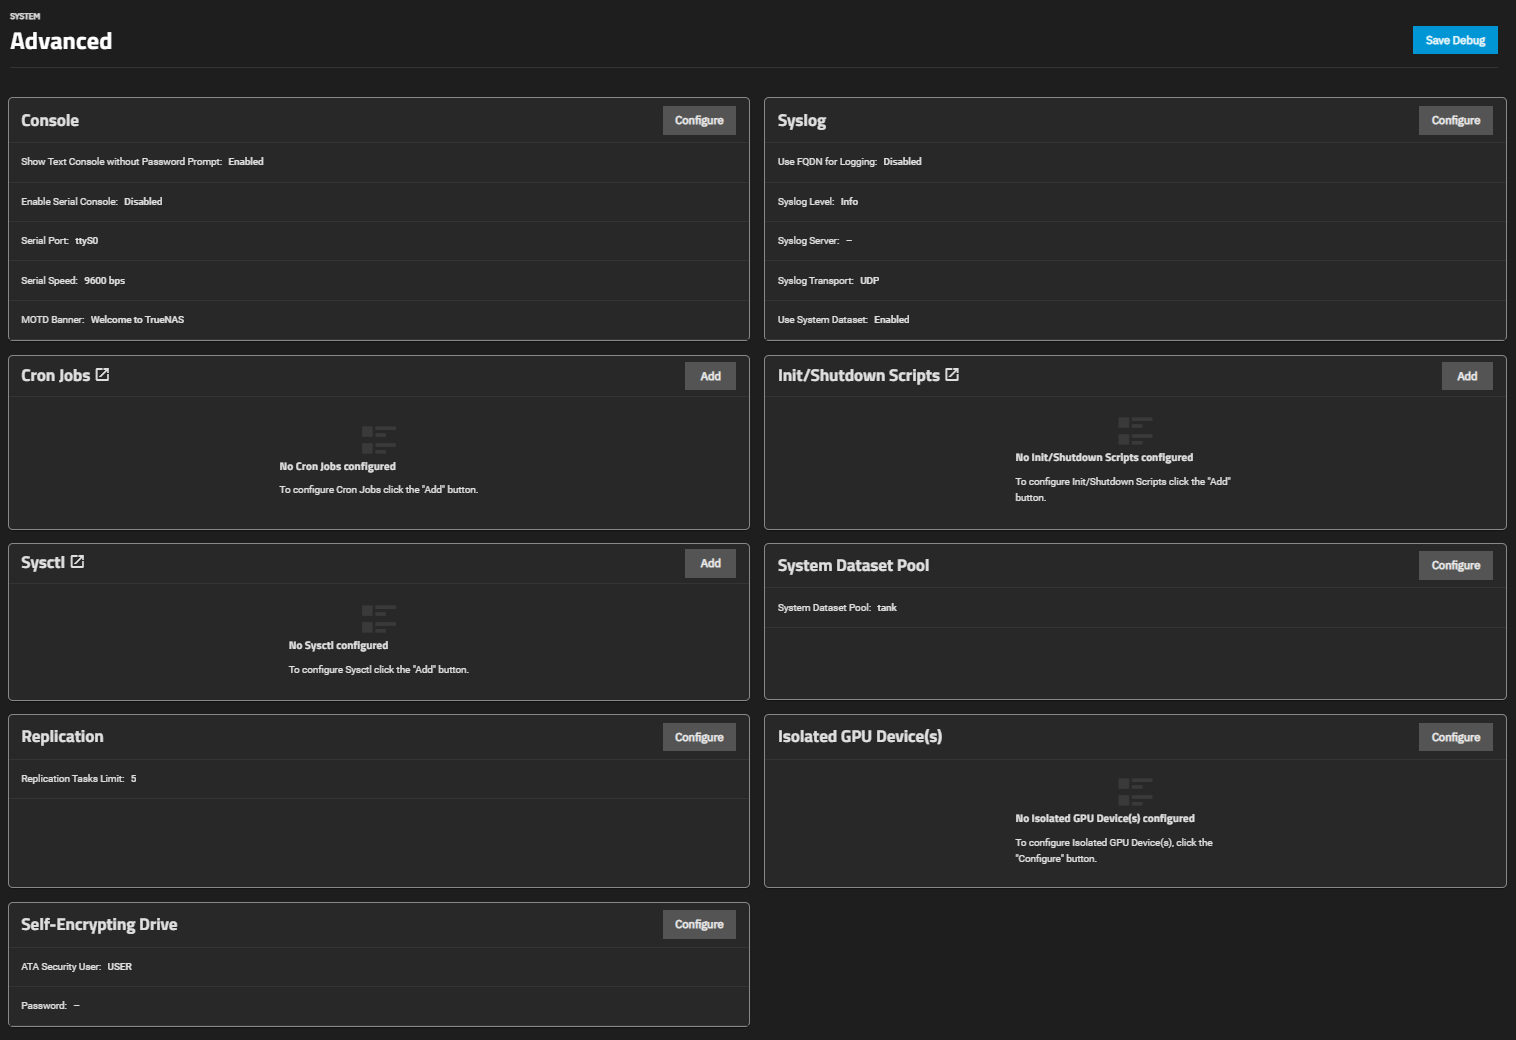
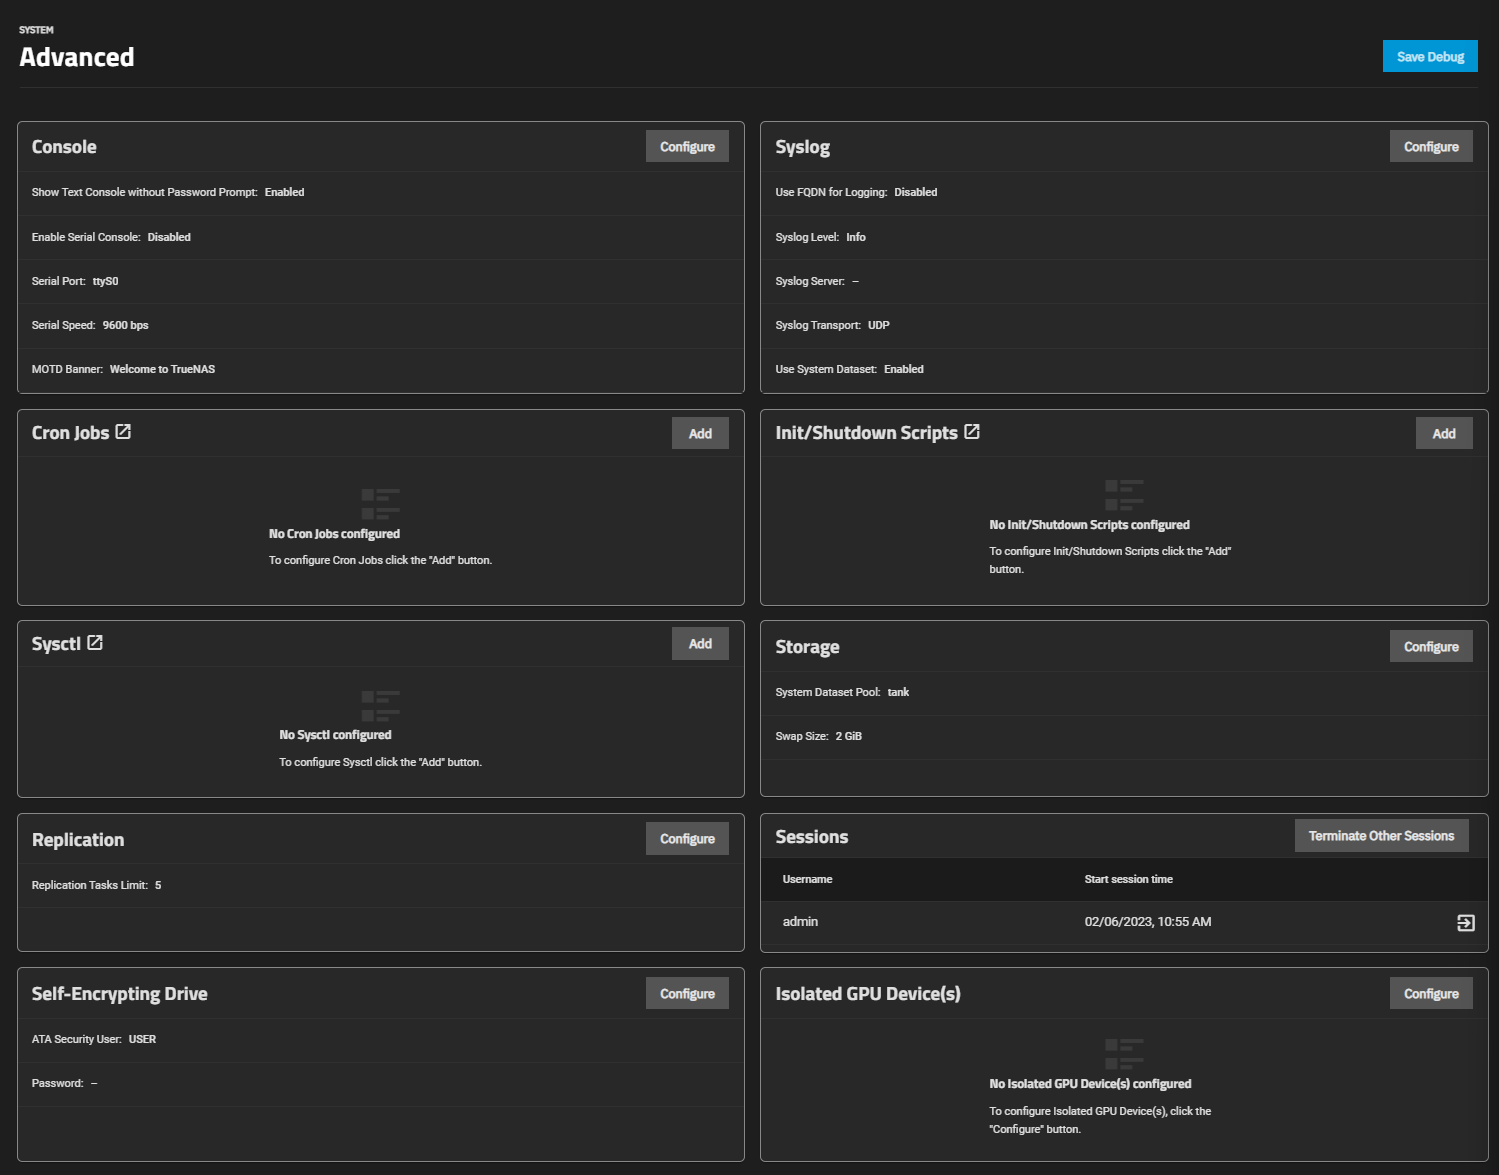
PD-143   Update System Settings - Advanced Articles

diff --git a/content/SCALE/SCALEUIReference/SystemSettings/AdvancedSettingsScreen.md b/content/SCALE/SCALEUIReference/SystemSettings/AdvancedSettingsScreen.md
@@ -19,7 +19,7 @@ tags:
 
 {{< toc >}}
 
-The **Advanced** settings screen provides configuration options for the console, syslog, sysctl, replication, cron jobs, init/shutdown scripts, system dataset pool, isolated GPU device(s), and self-encrypting drives.
+The **Advanced** settings screen provides configuration options for the console, syslog, cron jobs, init/shutdown scripts, sysctl, storage (system dataset pool), replication, sessions, self-encrypting drives, and isolated GPU device(s).
 
 ![SystemAdvancedScreen](/images/SCALE/22.12/SystemAdvancedScreen.png "SCALE Advanced Settings Screen") 
 
@@ -57,7 +57,7 @@ The **Syslog** widget displays the existing system logging settings that specify
 **Configure** opens the **[Syslog](#syslog-configuration-screen)** configuration screen.
 
 ### Syslog Configuration Screen
-The **Syslog** settings specify the logging level the system uses to record system events. It also lists the syslog server DNS hostname or IP, the transport protocol it uses, the certificate and certificate authority (CA) for that server (if using TLS) and, finally, if it uses the system dataset to store logs.
+The **Syslog** settings specify the logging level the system uses to record system events. It also lists the syslog server DNS hostname or IP, the transport protocol it uses, the certificate and certificate authority (CA) for that server (if using TLS), and, finally, if it uses the system dataset to store logs.
 {{< expand "Click Here for More Information" "v" >}}
 
 ![SyslogConfigScreen](/images/SCALE/22.12/SyslogConfigScreen.png "SCALE Syslog Settings Screen") 
@@ -74,7 +74,7 @@ The **Syslog** settings specify the logging level the system uses to record syst
 {{< /expand >}}
 
 ## Cron Jobs Widget
-The **Cron Jobs** widget displays **No Cron Jobs configured** until you add a cron job, then it shows information on cron job(s) configured on the system.
+The **Cron Jobs** widget displays **No Cron Jobs configured** until you add a cron job, then it shows the information on cron job(s) configured on the system.
 
 ![AdvancedSettingsCronJobWidget](/images/SCALE/22.02/AdvancedSettingsCronJobWidget.png "SCALE Advanced Settings Cron Job Widget") 
 
@@ -85,7 +85,7 @@ Click on any job listed in the widget to open the **[Edit Cron Jobs](#add-or-edi
 The **Add Cron Job** and **Edit Cron Job** configuration screens display the same settings. **Cron Jobs** lets users configure jobs that run specific commands or scripts on a regular schedule using [cron(8)](https://manpages.debian.org/testing/cron/cron.8.en.html "Cron Man Page"). Cron Jobs help users run repetitive tasks.
 {{< expand "Click Here for More Information" "v" >}}
 
-![AddCronJobScreen](/images/SCALE/22.02/AddCronJobScreen.png "SCALE Add Cron Job Screen") 
+![AddCronJobScreen](/images/SCALE/22.12/AddCronJobScreen.png "SCALE Add Cron Job Screen") 
 
 | Settings | Description |
 |----------|-------------|
@@ -110,7 +110,7 @@ Any script listed is a link that opens the **[Edit Init/Shutdown Script](#add-or
 **Init/Shutdown Scripts** lets users schedule commands or scripts to run at system startup or shutdown. 
 {{< expand "Click Here for More Information" "v" >}}
 
-![AddInitShutdownScriptConfigScreen](/images/SCALE/22.02/AddInitShutdownScriptConfigScreen.png "SCALE Init/Shutdown Script Settings Screen") 
+![AddInitShutdownScriptConfigScreen](/images/SCALE/22.12/AddInitShutdownScriptConfigScreen.png "SCALE Init/Shutdown Script Settings Screen") 
 
 | Settings | Description |
 |----------|-------------|
@@ -134,7 +134,7 @@ The **Sysctl** widget displays either **No Sysctl configured** or the existing s
 The **Add Sysctl** or **Edit Sysctl** configuration screen settings let users set up tunables that configure kernel parameters at runtime.
 {{< expand "Click Here for More Information" "v" >}}
 
-![AddSysctlConfigScreens](/images/SCALE/22.02/AddSysctlConfigScreen.png "SCALE Add Sysctl Screen") 
+![AddSysctlConfigScreens](/images/SCALE/22.12/AddSysctlConfigScreen.png "SCALE Add Sysctl Screen") 
 
 | Settings | Description |
 |----------|-------------|
@@ -144,22 +144,27 @@ The **Add Sysctl** or **Edit Sysctl** configuration screen settings let users se
 | **Enabled** | Select to enable this tunable. Leave clear to disable this tunable without deleting it. |
 {{< /expand >}}
 
-## System Dataset Pool Widget
-**System Dataset Pool** widget displays the pool configured as the system dataset pool and allows users to select the storage pool they want to hold the system dataset. 
+## Storage Widget
+**Storage** widget displays the pool configured as the system dataset pool and allows users to select the storage pool they want to hold the system dataset. 
 The system dataset stores core files for debugging and keys for encrypted pools. It also stores Samba4 metadata, such as the user and group cache and share-level permissions.
 
-![AdvancedSystemDatasetPoolWidget](/images/SCALE/22.02/AdvancedSystemDatasetPoolWidget.png "SCALE Advanced System Dataset Pool Widget") 
+![AdvancedSystemStorageWidget](/images/SCALE/22.12/AdvancedSystemStorageWidget.png "SCALE Advanced System Dataset Pool Widget") 
 
-**Configure** opens the **System Dataset Pool** configuration screen.
+**Configure** opens the **Storage Settings** configuration screen.
 
-### System Dataset Pool Configuration Screen
-If the system has one pool, TrueNAS configures that pool as the system dataset pool. If your system has more than one pool, you can set the system dataset pool using the **Select Pool** dropdown. Users can move the system dataset to an unencrypted pool or an encrypted pool without passphrases.
+### Storage Settings Configuration Screen
+If the system has one pool, TrueNAS configures that pool as the system dataset pool. If your system has more than one pool, you can set the system dataset pool using the **Select Pool** dropdown. Users can move the system dataset to an unencrypted pool, or an encrypted pool without passphrases.
 
-![SystemDatasetPoolConfigScreen](/images/SCALE/22.02/SystemDatasetPoolConfigScreen.png "SCALE Advanced Settings System Dataset Pool Screen") 
+![SystemDatasetPoolConfigScreen](/images/SCALE/22.12/SystemStorageConfigScreen.png "SCALE Advanced Settings System Dataset Pool Screen") 
 
 Users can move the system dataset to a key-encrypted pool, but cannot change the pool encryption type afterward. If the encrypted pool already has a passphrase set, you cannot move the system dataset to that pool.
 
-## Replication
+**Swap Size** lets users enter an amount (in GiB) of hard disk space to use as a substitute for RAM when the system fully utilizes the actual RAM.
+
+By default, the system creates all data disks with the specified swap amount. Changing the value does not affect the amount of swap on existing disks, only disks added after the change. Swap size does not affect log or cache devices.
+
+## Replication Widget
+
 The **Replication** widget displays the number of replication tasks that can execute simultaneously configured on the system. It allows users to adjust the maximum number of replication tasks the system can perform simultaneously.
 
 ![SystemAdvancedSettingsReplicationWidget](/images/SCALE/22.02/SystemAdvancedSettingsReplicationWidget.png "SCALE Advanced Settings Replication Widget") 
@@ -170,7 +175,35 @@ Click **Configure** to open the **Replication** configuration screen.
 
 Enter a number for the maximum number of simultaneous replication tasks you want to allow the system to process and click **Save**.
 
-## Isolated GPU Device(s)
+## Sessions Widget
+
+The **Sessions** widget displays all active sessions in the web UI, along with the user who initiated the session and what time it started.
+
+![SystemAdvancedSettingsSessionsWidget](/images/SCALE/22.12/SystemAdvancedSettingsSessionsWidget.png "SCALE Advanced Settings Sessions Widget") 
+
+The **Terminate Other Sessions** button ends all sessions except for the one you are currently using. You can also end individual sessions by clicking the <span class="iconify" data-icon="bi:box-arrow-in-right"></span> button next to that session. You must check a confirmation box before the system allows you to end sessions.
+
+## Self-Encrypting Drive Widget
+The **Self-Encrypting Drive** (SED) widget displays the system ATA security user and password. 
+
+![AdvancedSystemSEDWidget](/images/SCALE/22.02/AdvancedSystemSEDWidget.png "SCALE Advanced Settings Self-Encrypting Drive Widget") 
+
+**Configure** opens the **[Self-Encrypting Drive](#self-encrypting-drive-configuration-screen)** configuration screen.
+
+### Self-Encrypting Drive Configuration Screen
+The **Self-Encrypting Drive** configuration screen allows users to set the ATA security user and create a SED global password.
+{{< expand "Click Here for More Information" "v" >}}
+
+![AdvancedSystemSelfEncryptingDriveConfigScreen](/images/SCALE/22.02/AdvancedSystemSelfEncryptingDriveConfigScreen.png "SCALE Advanced Settings Self-Encrypting Drive screen") 
+
+| Settings | Description |
+|----------|-------------|
+| **ATA Security User** | Select the user passed to `camcontrol security -u` to unlock SEDs from the dropdown list. Options are **USER** or **MASTER**. |
+| **SED Password** | Enter the global password to unlock SEDs. |
+| **Confirm SED Password** | Re-enter the global password to unlock SEDs. |
+{{< /expand >}}
+
+## Isolated GPU Device(s) Widget
 The **Isolated GPU Device(s)** widget displays any graphics processing unit (GPU) device(s) configured on your system. 
 
 ![AdvancedSettingIsolatedGPUDeviceWidget](/images/SCALE/22.02/AdvancedSettingIsolatedGPUDeviceWidget.png "SCALE Advanced Settings Isolated GPU Device Widget") 
@@ -189,24 +222,5 @@ To isolate a GPU, you must have at least two in your system; one allocated to th
 Isolating the GPU prevents apps and the system from accessing it.
 {{< /expand >}}
 
-## Self-Encrypting Drive
-The **Self-Encrypting Drive** (SED) widget displays the system ATA security user and password. 
-
-![AdvancedSystemSEDWidget](/images/SCALE/22.02/AdvancedSystemSEDWidget.png "SCALE Advanced Settings Self-Encrypting Drive Widget") 
-
-**Configure** opens the **[Self-Encrypting Drive](#self-encrypting-drive-configuration-screen)** configuration screen.
-
-### Self-Encrypting Drive Configuration Screen
-The **Self-Encrypting Drive** configuration screen allows users to set the ATA security user and create a SED global password.
-{{< expand "Click Here for More Information" "v" >}}
-
-![AdvancedSystemSelfEncryptingDriveConfigScreen](/images/SCALE/22.02/AdvancedSystemSelfEncryptingDriveConfigScreen.png "SCALE Advanced Settings Self-Encrypting Drive screen") 
-
-| Settings | Description |
-|----------|-------------|
-| **ATA Security User** | Select the user passed to camcontrol security -u to unlock SEDs from the dropdown list. Options are **USER** or **MASTER**. |
-| **SED Password** | Enter the global password to unlock SEDs. |
-| **Confirm SED Password** | Re-enter the global password to unlock SEDs. |
-{{< /expand >}}
 
 {{< taglist tag="scalesettings" limit="10" >}} 

diff --git a/content/SCALE/SCALETutorials/SystemSettings/Advanced/AdvancedSettings.md b/content/SCALE/SCALETutorials/SystemSettings/Advanced/AdvancedSettings.md
@@ -11,43 +11,50 @@ tags:
 
 {{< toc >}}
 
-TrueNAS SCALE advanced settings screen provides configuration options for the console, syslog, sysctl, replication, cron jobs, init/shutdown scripts, system dataset pool, isolated GPU device(s), and self-encrypting drives.
+Advanced Settings provides configuration options for the console, syslog, sysctl, replication, cron jobs, init/shutdown scripts, system dataset pool, isolated GPU device(s), and self-encrypting drives.
 
 {{< include file="/_includes/AdvancedSettingsWarningSCALE.md" type="page" >}}
 
-![SystemAdvancedScreen](/images/SCALE/22.02/SystemAdvancedScreen.png "SCALE Advanced Settings Screen") 
+![SystemAdvancedScreen](/images/SCALE/22.12/SystemAdvancedScreen.png "SCALE Advanced Settings Screen") 
 
-This article provides information on sysctl, system dataset pool and setting the maximum number of simultaneous replication tasks the system can perform. 
+This article provides information on sysctl, system dataset pool, and setting the maximum number of simultaneous replication tasks the system can perform. 
 
 ## Managing Sysctl Variables
-Use **ADD** on the **Sysctl** widget to add a tunable that configures a kernel module parameter at runtime. 
+Use **Add** on the **Sysctl** widget to add a tunable that configures a kernel module parameter at runtime. 
 
 ![AdvancedSysctlWidgetNoSysctl](/images/SCALE/22.02/AdvancedSysctlWidgetNoSysctl.png "SCALE Advanced Settings Sysctl Widget") 
 
 The **Add Sysctl** or **Edit Sysctl** configuration screens display the settings.
 
-![AddSysctlConfigScreens](/images/SCALE/22.02/AddSysctlConfigScreen.png "SCALE Add Sysctl Screen") 
+![AddSysctlConfigScreens](/images/SCALE/22.12/AddSysctlConfigScreen.png "SCALE Add Sysctl Screen") 
 
-Enter the sysctl variable name in **Variable**. Sysctl tunables are used to configure kernel module parameters while the system is running and generally take effect immediately.
+Enter the sysctl variable name in **Variable**. Sysctl tunables configure kernel module parameters while the system runs and generally take effect immediately.
 
-Enter a [sysctl](https://man7.org/linux/man-pages/man8/sysctl.8.html) value to use for the loader in **Value**. 
+Enter a [sysctl](https://man7.org/linux/man-pages/man8/sysctl.8.html) value for the loader in **Value**. 
 
 Enter a description and then select **Enable**. To disable but not delete the variable, clear the **Enable** checkbox.
 
 Click **Save**.
 
-## Managing the System Dataset Pool 
+## Managing the System Dataset Pool
 
-**System Dataset Pool** widget displays the pool configured as the system dataset pool. The widget allows users to select the storage pool they want to hold the system dataset. 
-The system dataset stores debugging core files, encryption keys for encrypted pools, and Samba4 metadata, such as the user and group cache and share level permissions.
+**Storage** widget displays the pool configured as the system dataset pool and allows users to select the storage pool they want to hold the system dataset. 
+The system dataset stores core files for debugging and keys for encrypted pools. It also stores Samba4 metadata, such as the user and group cache and share-level permissions.
 
-![AdvancedSystemDatasetPoolWidget](/images/SCALE/22.02/AdvancedSystemDatasetPoolWidget.png "SCALE Advanced System Dataset Pool Widget") 
+![AdvancedSystemStorageWidget](/images/SCALE/22.12/AdvancedSystemStorageWidget.png "SCALE Advanced System Dataset Pool Widget") 
 
-Click **Configure** to open the **System Dataset Pool** configuration screen. Select a pool from the dropdown list and click **Save**.
+**Configure** opens the **Storage Settings** configuration screen.
 
-If the system has one pool, TrueNAS configures that pool as the system dataset pool. If your system has more than one pool, you can select the system dataset pool from the dropdown list of available pools. Users can move the system dataset to unencrypted pools or encrypted pools without passphrases.
+### Storage Settings Configuration Screen
+If the system has one pool, TrueNAS configures that pool as the system dataset pool. If your system has more than one pool, you can set the system dataset pool using the **Select Pool** dropdown. Users can move the system dataset to an unencrypted pool, or an encrypted pool without passphrases.
+
+![SystemDatasetPoolConfigScreen](/images/SCALE/22.12/SystemStorageConfigScreen.png "SCALE Advanced Settings System Dataset Pool Screen") 
 
 Users can move the system dataset to a key-encrypted pool, but cannot change the pool encryption type afterward. If the encrypted pool already has a passphrase set, you cannot move the system dataset to that pool.
+
+**Swap Size** lets users enter an amount (in GiB) of hard disk space to use as a substitute for RAM when the system fully utilizes the actual RAM.
+
+By default, the system creates all data disks with the specified swap amount. Changing the value does not affect the amount of swap on existing disks, only disks added after the change. Swap size does not affect log or cache devices.
 
 ## Setting the Number of Replication Tasks
 The **Replication** widget displays the number of replication tasks that can execute simultaneously configured on the system. It allows users to adjust the maximum number of replication tasks the system can execute simultaneously.

diff --git a/content/_includes/AdvancedSettingsWarningSCALE.md b/content/_includes/AdvancedSettingsWarningSCALE.md
@@ -5,7 +5,7 @@
 Advanced settings have reasonable defaults in place. A warning message displays for some settings advising of the dangers making changes.
 Changing advanced settings can be dangerous when done incorrectly. Use caution before saving changes. 
 
-![ChangingAdvancedSettingsWarning](/images/SCALE/22.02/ChangingAdvancedSettingsWarning.png "Changing Advanced Settings Warning") 
+![ChangingAdvancedSettingsWarning](/images/SCALE/22.12/ChangingAdvancedSettingsWarning.png "Changing Advanced Settings Warning") 
 
 Make sure you are comfortable with ZFS, Linux, and system [configuration backup and restoration]({{< relref "/SCALE/SCALETutorials/SystemSettings/General/GeneralSettings.md" >}}) before making any changes. 
 {{< /hint >}}
